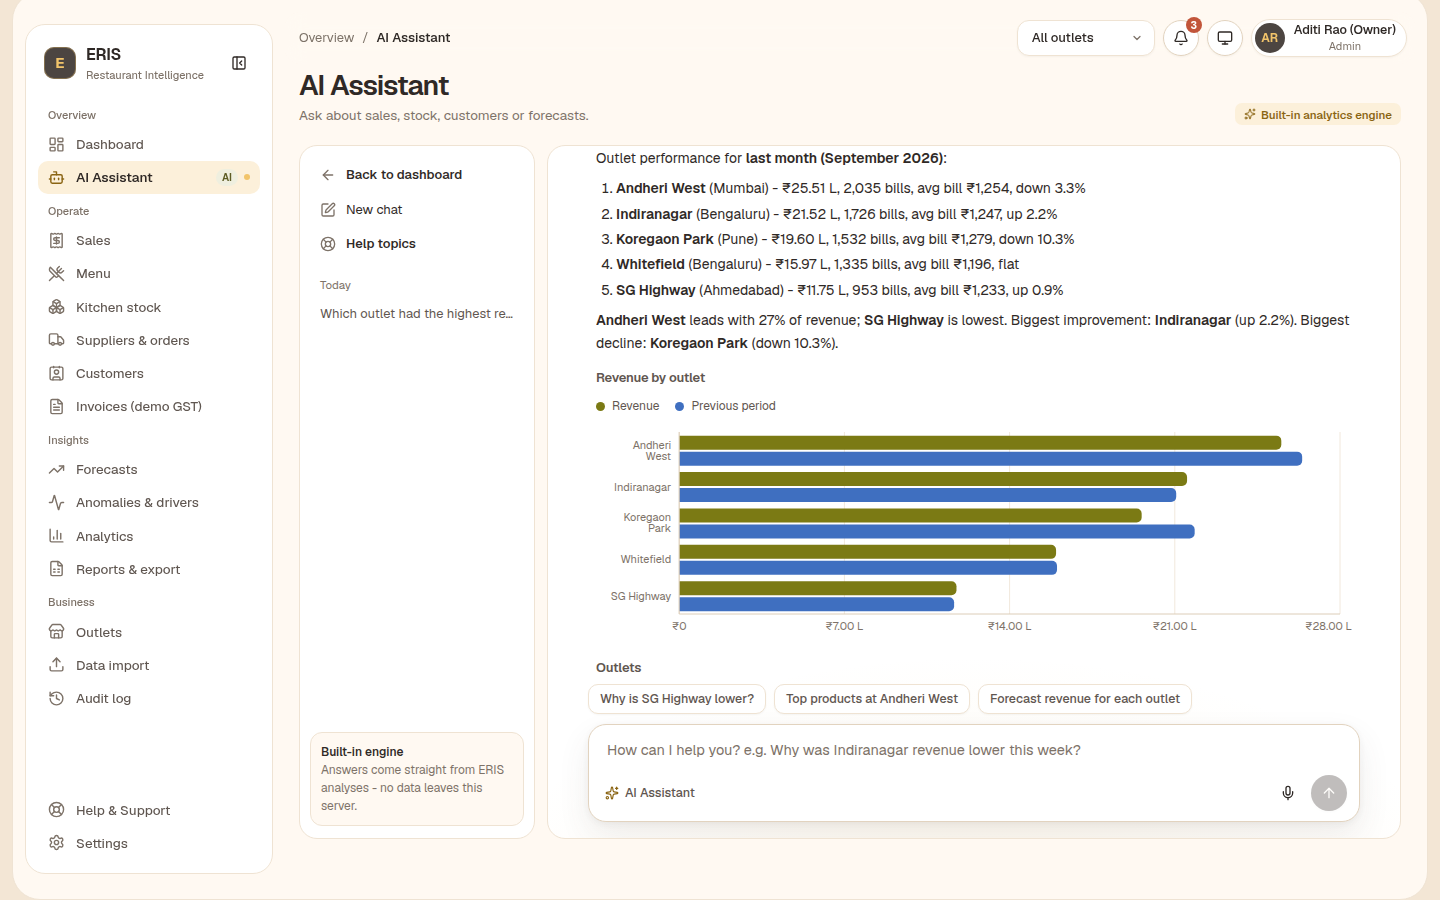
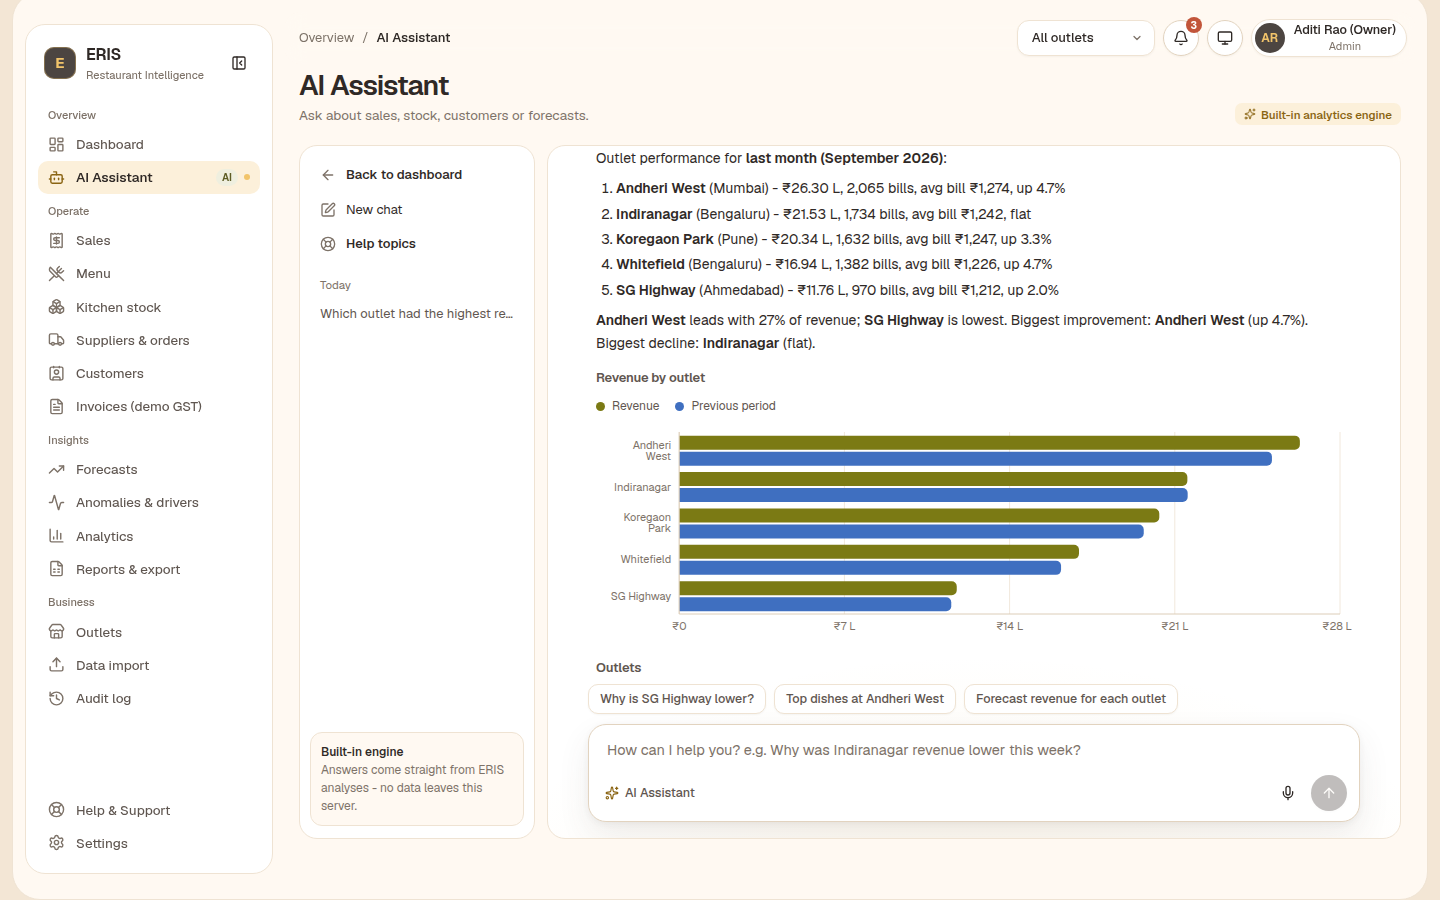
Refresh README screenshots; add Sales and Analytics shots
Regenerated every screenshot from a freshly baked restaurant demo, added
the Sales and Analytics pages to the README gallery, trimmed trailing
zeros from currency axis ticks so labels like ₹26 L no longer wrap, and
reworded the Analytics heatmap title for a restaurant.

Claude-Session: https://claude.ai/code/session_01JBgM8KvT56w33mqkfgPQXH

diff --git a/web/src/pages/Analytics.jsx b/web/src/pages/Analytics.jsx
@@ -62,7 +62,7 @@ function SalesTab({ period }) {
           <TrendChart data={d.series} gran={d.granularity} series={[{ key: 'revenue', label: 'Revenue' }, { key: 'profit', label: 'Gross profit' }]} height={300} />
         </Card>
         <div className="grid grid-3">
-          <Card title="When do customers shop?" subtitle="Average revenue by weekday and hour" className="span-2">
+          <Card title="When do guests come in?" subtitle="Average revenue by weekday and hour" className="span-2">
             <Heatmap cells={d.heatmap.cells} />
           </Card>
           <div className="stack" style={{ gap: 16 }}>

diff --git a/web/src/components/charts.jsx b/web/src/components/charts.jsx
@@ -38,7 +38,8 @@ const resolve = (color, c) => {
 }
 
 export function fmtAxis(format) {
-  if (format === 'currency') return (v) => money(v, { compact: true })
+  // axis ticks drop trailing zeros (₹26 L, ₹19.5 L) so they fit the axis without wrapping
+  if (format === 'currency') return (v) => money(v, { compact: true }).replace(/\.0+(?=\D*$)|(\.\d*?)0+(?=\D*$)/, '$1')
   if (format === 'percent' || format === 'percent_plain') return (v) => `${v}%`
   return (v) => (Math.abs(v) >= 1000 ? `${(v / 1000).toFixed(v >= 10000 ? 0 : 1)}k` : num(v))
 }

diff --git a/README.md b/README.md
@@ -44,6 +44,8 @@ Every number traces back to the data.
 | ![Anomalies](docs/images/anomalies.png) | ![Import](docs/images/import.png) |
 | **Demo GST invoice** | **Reports & export** |
 | ![Invoice](docs/images/invoice.png) | ![Reports](docs/images/reports.png) |
+| **Sales: dine-in, takeaway and delivery bills** | **Analytics: sales patterns, dishes, outlets, guests** |
+| ![Sales](docs/images/sales.png) | ![Analytics](docs/images/analytics.png) |
 
 <img src="docs/images/mobile-dark.png" alt="Mobile, dark mode" width="260">
 
